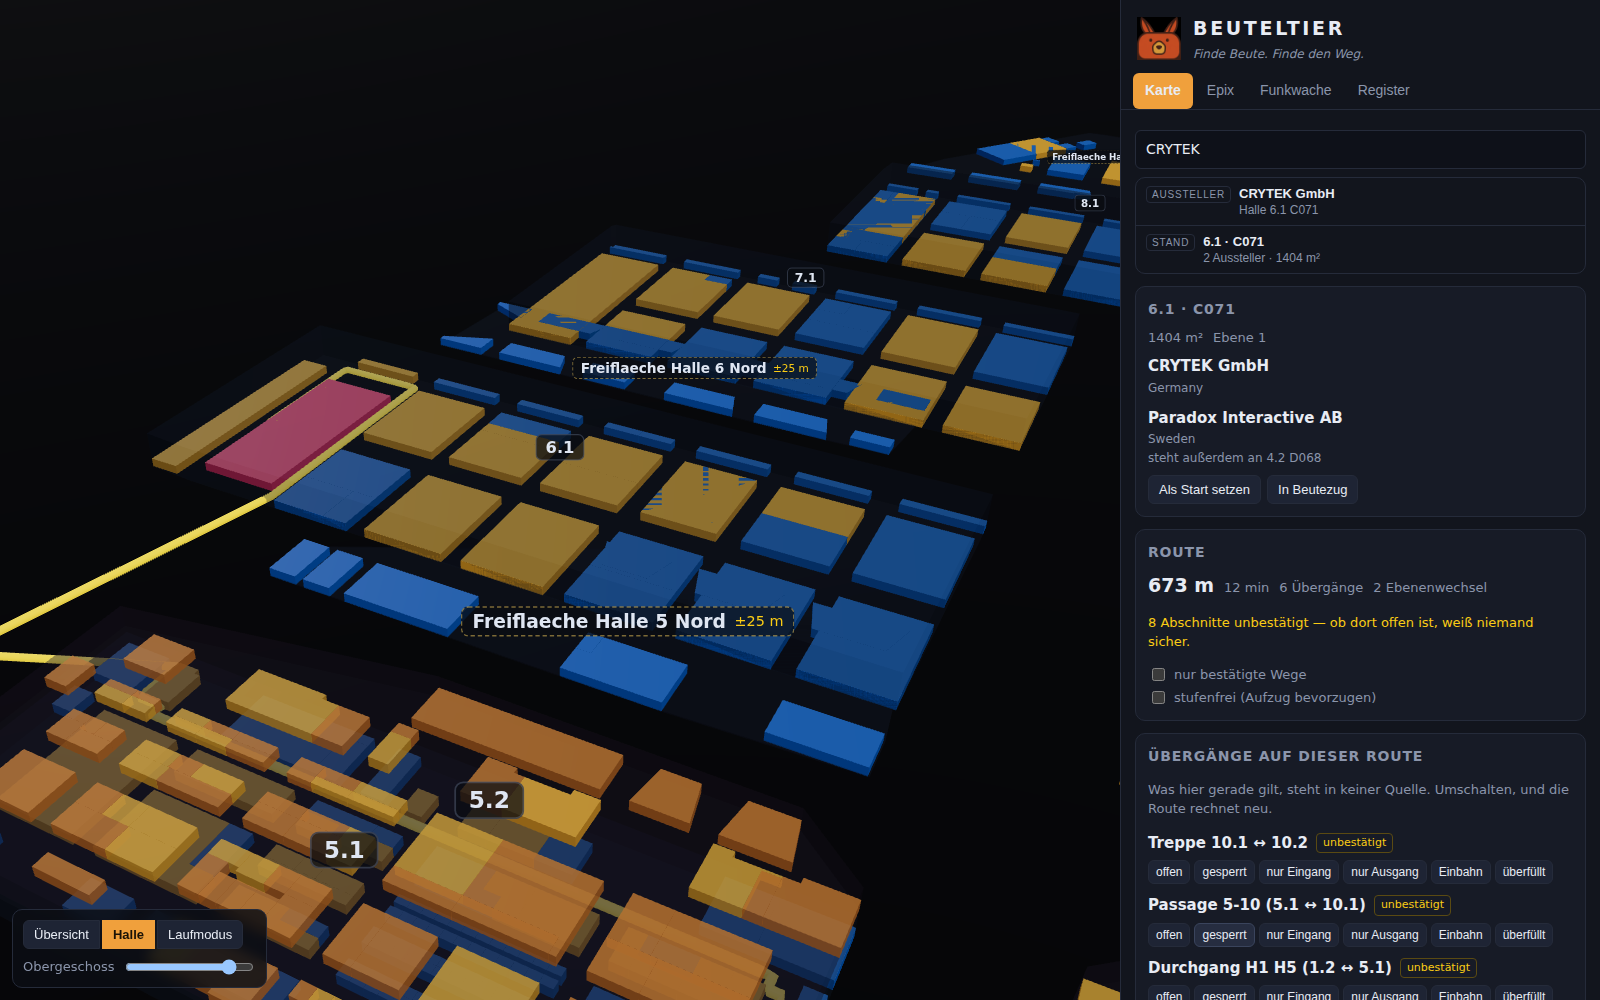
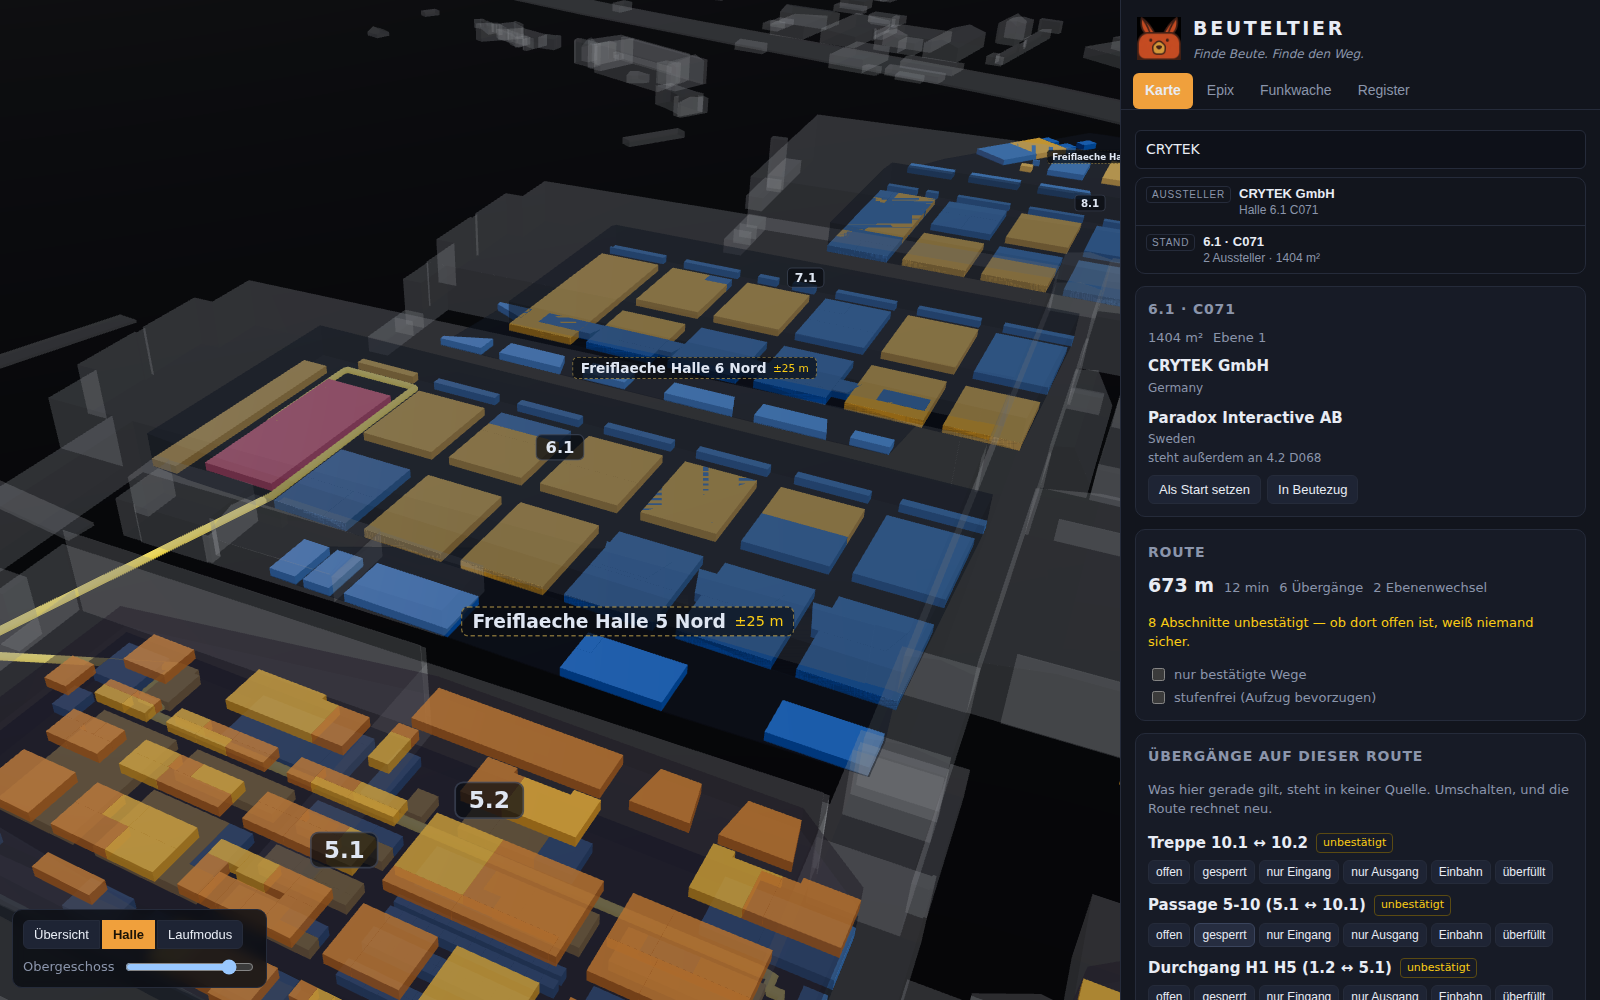
Die Karte steht auf dem echten Gelaende
Das eingepasste LoD2-Modell wird als GLB in die Szene geladen und liegt in
denselben Gelaendemetern wie alles andere. Sichtbar sind jetzt die
Hallenhuellen um die Staende und das Umfeld in Deutz -- vorher stand die
Karte auf einer leeren Ebene.

Die Huelle bleibt durchscheinend (16 Prozent): das Gebaeude ist der Rahmen,
die Staende sind der Inhalt. Faellt das Modell aus, bleibt die Karte
benutzbar -- Suspense ohne Ersatzdarstellung, die Hallenkoerper tragen sie
weiter.

Dazu eine CI, die den ganzen Bau auf GitHub faehrt: sie holt die
LoD2-Kacheln, cacht sie, passt ein, baut alles und laesst die Tests
laufen. Das Gelaendemodell wird als Artefakt gesichert.

Claude-Session: https://claude.ai/code/session_01NKh9u7YcQuqSJ4Aua3cnMm

diff --git a/app/src/scene/SiteScene.tsx b/app/src/scene/SiteScene.tsx
@@ -10,9 +10,9 @@
  * Kameraposition von oben, kein zweiter Renderer.
  */
 
-import { useEffect, useMemo, useRef } from 'react';
+import { Suspense, useEffect, useMemo, useRef } from 'react';
 import { Canvas, useFrame, useThree } from '@react-three/fiber';
-import { Html, OrbitControls, type OrbitControlsProps } from '@react-three/drei';
+import { Html, OrbitControls, useGLTF, type OrbitControlsProps } from '@react-three/drei';
 import * as THREE from 'three';
 
 import type { Dataset } from '../data/load';
@@ -50,6 +50,11 @@ const COLOURS = {
 
 const STAND_HEIGHT_M = 2.6;
 
+/** Das eingepasste LoD2-Modell der Koelnmesse, gebaut von tools/build_buildings.py. */
+const MODEL_URL = `${import.meta.env.BASE_URL}models/messe.glb`;
+/** Wie durchsichtig die Gebäudehülle in der Übersicht ist. */
+const SHELL_OPACITY = 0.16;
+
 function Ground({ extent }: { extent: number }) {
   return (
     <mesh rotation={[-Math.PI / 2, 0, 0]} position={[0, -0.4, 0]} receiveShadow>
@@ -57,6 +62,51 @@ function Ground({ extent }: { extent: number }) {
       <meshStandardMaterial color={COLOURS.ground} roughness={1} />
     </mesh>
   );
+}
+
+/**
+ * Das amtliche Gebäudemodell als Gelände.
+ *
+ * Die Grundrisse kommen aus dem LoD2-Modell der Geobasis NRW und stehen in
+ * denselben Geländemetern wie alles andere — eingepasst mit 96 % Treffern.
+ * Die Wände bleiben durchscheinend: das Gebäude ist der Rahmen, die Stände
+ * sind der Inhalt. Erst im Laufmodus wird daraus eine Wand, an der man steht.
+ */
+function Gelaende({
+  centre,
+  opacity,
+}: {
+  centre: [number, number];
+  opacity: number;
+}) {
+  const { scene } = useGLTF(MODEL_URL);
+
+  const model = useMemo(() => {
+    const clone = scene.clone(true);
+    clone.traverse((node) => {
+      if (!(node instanceof THREE.Mesh)) return;
+      const source = node.material as THREE.MeshStandardMaterial;
+      const material = source.clone();
+      material.transparent = opacity < 0.99;
+      material.opacity = opacity;
+      material.depthWrite = opacity > 0.9;
+      material.side = THREE.DoubleSide;
+      node.material = material;
+      node.receiveShadow = true;
+    });
+    return clone;
+  }, [scene, opacity]);
+
+  useEffect(
+    () => () => {
+      model.traverse((node) => {
+        if (node instanceof THREE.Mesh) (node.material as THREE.Material).dispose();
+      });
+    },
+    [model],
+  );
+
+  return <primitive object={model} position={[-centre[0], 0, centre[1]]} />;
 }
 
 function Halls({
@@ -396,6 +446,11 @@ export function SiteScene(props: SceneProps) {
       <directionalLight position={[-extent * 0.5, extent * 0.4, -extent * 0.4]} intensity={0.35} />
 
       <Ground extent={extent} />
+      {/* Fällt das Modell aus, bleibt die Karte benutzbar -- die Hallenkörper
+          tragen sie weiterhin. Deshalb Suspense ohne Ersatzdarstellung. */}
+      <Suspense fallback={null}>
+        <Gelaende centre={centre} opacity={SHELL_OPACITY} />
+      </Suspense>
       <Halls data={data} centre={centre} upperOpacity={upperOpacity} />
       <Stands
         data={data}
